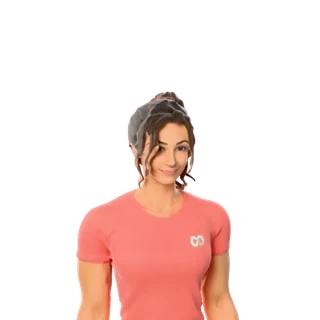
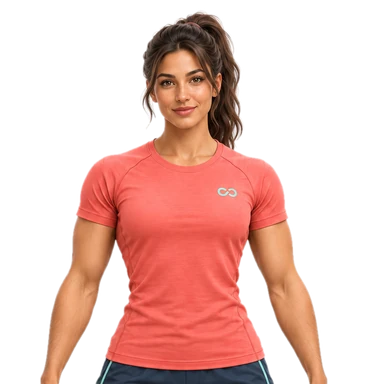
Coaches: reference half-body portraits, bottom-centre fit, tap-to-emote, tighter 720p crops, open-hand celebrations
Claude-Session: https://claude.ai/code/session_01TDToodQbPJg86keHcVnDSc

diff --git a/app/src/main/java/com/myfit/tracker/ui/coach/CoachArt.kt b/app/src/main/java/com/myfit/tracker/ui/coach/CoachArt.kt
@@ -24,6 +24,8 @@ import androidx.compose.material3.Icon
 import androidx.compose.runtime.Composable
 import androidx.compose.runtime.collectAsState
 import androidx.compose.runtime.getValue
+import androidx.compose.runtime.setValue
+import androidx.compose.foundation.clickable
 import androidx.compose.runtime.produceState
 import androidx.compose.ui.Alignment
 import androidx.compose.ui.Modifier
@@ -91,13 +93,28 @@ private val remember0 = MutableStateFlow(0f)
  * pops into each new pose with a springy entrance.
  */
 @Composable
-fun CoachFigure(look: String, pose: String, modifier: Modifier = Modifier, level: MutableStateFlow<Float>? = null, spotlight: Boolean = true) {
+fun CoachFigure(look: String, pose: String, modifier: Modifier = Modifier, level: MutableStateFlow<Float>? = null, spotlight: Boolean = true,
+                tapToEmote: Boolean = true) {
     val th = LocalFitTheme.current
+    // tap → a random fitting emote (never the same twice in a row), played once, then back to the screen's pose
+    var tapPose by androidx.compose.runtime.remember(look) { androidx.compose.runtime.mutableStateOf<String?>(null) }
+    var lastEmote by androidx.compose.runtime.remember(look) { androidx.compose.runtime.mutableStateOf<String?>(null) }
+    val shown = tapPose ?: pose
     val lv by (level ?: remember0).collectAsState()
     val t = rememberInfiniteTransition(label = "breath")
     val b by t.animateFloat(0f, 1f, infiniteRepeatable(tween(1900), RepeatMode.Reverse), label = "b")
     val sway by t.animateFloat(-1f, 1f, infiniteRepeatable(tween(3400), RepeatMode.Reverse), label = "s")
-    Box(modifier, contentAlignment = Alignment.BottomCenter) {
+    val tapMod = if (!tapToEmote) Modifier else Modifier.clickable(
+        interactionSource = androidx.compose.runtime.remember { androidx.compose.foundation.interaction.MutableInteractionSource() }, indication = null,
+    ) {
+        if (tapPose == null) { val e = CoachEmotes.pick(look, lastEmote); lastEmote = e; tapPose = e }
+    }
+    // stills (no pack yet / Android 8) have no end callback: hold the emote briefly, then return
+    val ctx0 = LocalContext.current
+    androidx.compose.runtime.LaunchedEffect(tapPose) {
+        if (tapPose != null && (android.os.Build.VERSION.SDK_INT < 28 || !CoachPacks.isInstalled(ctx0, look))) { kotlinx.coroutines.delay(2200); tapPose = null }
+    }
+    Box(modifier.then(tapMod), contentAlignment = Alignment.BottomCenter) {
         if (spotlight) Canvas(Modifier.fillMaxSize()) {
             drawOval(Brush.radialGradient(listOf(th.accent.copy(alpha = 0.35f), Color.Transparent), center = Offset(size.width / 2, size.height * 0.92f), radius = size.width * 0.5f),
                 topLeft = Offset(size.width * 0.12f, size.height * 0.84f), size = androidx.compose.ui.geometry.Size(size.width * 0.76f, size.height * 0.14f))
@@ -108,7 +125,7 @@ fun CoachFigure(look: String, pose: String, modifier: Modifier = Modifier, level
         val packs by CoachPacks.installed.collectAsState()
         // first appearance of this coach: fetch the animated moves in the background (the still shows meanwhile)
         androidx.compose.runtime.LaunchedEffect(look) { if (!CoachPacks.isInstalled(ctx, look)) CoachPacks.ensure(ctx, look) }
-        AnimatedContent(pose, Modifier.fillMaxSize(), transitionSpec = {
+        AnimatedContent(shown, Modifier.fillMaxSize(), transitionSpec = {
             (scaleIn(spring(0.55f, 380f), initialScale = 0.96f) + fadeIn(tween(180)))
                 .togetherWith(fadeOut(tween(140)))
         }, label = "pose") { p ->
@@ -118,7 +135,9 @@ fun CoachFigure(look: String, pose: String, modifier: Modifier = Modifier, level
             Box(Modifier.fillMaxSize(), contentAlignment = Alignment.BottomCenter) {
                 if (clip != null) {
                     // the animation carries its own breathing and motion; only bob gently with the voice
-                    CoachClip(clip, Modifier.fillMaxSize().graphicsLayer { transformOrigin = TransformOrigin(0.5f, 1f); translationY = -lv * 6f })
+                    val once = tapPose != null && p == tapPose
+                    CoachClip(clip, Modifier.fillMaxSize().graphicsLayer { transformOrigin = TransformOrigin(0.5f, 1f); translationY = -lv * 6f },
+                        loop = !once, onEnd = { if (tapPose == p) tapPose = null })
                 } else {
                     val img = rememberCoachImage(look, p)
                     if (img != null) Image(img, null, Modifier.fillMaxSize().graphicsLayer {
@@ -140,20 +159,54 @@ fun CoachFigure(look: String, pose: String, modifier: Modifier = Modifier, level
  * which avoids the stale-bounds double image some Android 11 MediaTek phones showed when drawing into Compose.
  */
 @Composable
-private fun CoachClip(file: java.io.File, modifier: Modifier) {
+private fun CoachClip(file: java.io.File, modifier: Modifier, loop: Boolean = true, onEnd: (() -> Unit)? = null) {
+    val end = androidx.compose.runtime.rememberUpdatedState(onEnd)
     androidx.compose.ui.viewinterop.AndroidView(
-        factory = { c -> android.widget.ImageView(c).apply { scaleType = android.widget.ImageView.ScaleType.FIT_END; adjustViewBounds = false } },
+        factory = { c -> BottomFitImageView(c) },
         modifier = modifier,
         update = { iv ->
-            if (iv.tag != file.path && android.os.Build.VERSION.SDK_INT >= 28) {
-                iv.tag = file.path
+            val key = file.path + loop
+            if (iv.tag != key && android.os.Build.VERSION.SDK_INT >= 28) {
+                iv.tag = key
                 runCatching {
                     val d = android.graphics.ImageDecoder.decodeDrawable(android.graphics.ImageDecoder.createSource(file))
                     iv.setImageDrawable(d)
-                    (d as? android.graphics.drawable.AnimatedImageDrawable)?.apply { repeatCount = android.graphics.drawable.AnimatedImageDrawable.REPEAT_INFINITE; start() }
+                    (d as? android.graphics.drawable.AnimatedImageDrawable)?.apply {
+                        repeatCount = if (loop) android.graphics.drawable.AnimatedImageDrawable.REPEAT_INFINITE else 0
+                        if (!loop) registerAnimationCallback(object : android.graphics.drawable.Animatable2.AnimationCallback() {
+                            override fun onAnimationEnd(drawable: android.graphics.drawable.Drawable?) { end.value?.invoke() }
+                        })
+                        start()
+                    }
                 }
             }
         },
-        onRelease = { iv -> ((iv.drawable as? android.graphics.drawable.Animatable))?.stop(); iv.setImageDrawable(null) },
+        onRelease = { iv ->
+            if (android.os.Build.VERSION.SDK_INT >= 28) (iv.drawable as? android.graphics.drawable.AnimatedImageDrawable)?.clearAnimationCallbacks()
+            ((iv.drawable as? android.graphics.drawable.Animatable))?.stop(); iv.setImageDrawable(null)
+        },
     )
+}
+
+/** Emotes a tap can trigger, per coach kind. */
+object CoachEmotes {
+    private val TRAINER = listOf("wave", "thumbsup", "fistpump", "cheer", "victory")
+    private val NUTRI = listOf("wave", "thumbsup", "think", "bottle")
+    fun list(look: String) = if (look.startsWith("n")) NUTRI else TRAINER
+    fun pick(look: String, last: String?): String = list(look).filter { it != last }.random()
+}
+
+/** Scales the frame to fit the box and stands it on the bottom edge, centred horizontally (feet on the floor). */
+private class BottomFitImageView(c: android.content.Context) : android.widget.ImageView(c) {
+    init { scaleType = ScaleType.MATRIX }
+    private fun fit() {
+        val d = drawable ?: return
+        val dw = d.intrinsicWidth.toFloat(); val dh = d.intrinsicHeight.toFloat()
+        val vw = (width - paddingLeft - paddingRight).toFloat(); val vh = (height - paddingTop - paddingBottom).toFloat()
+        if (dw <= 0f || dh <= 0f || vw <= 0f || vh <= 0f) return
+        val s = minOf(vw / dw, vh / dh)
+        imageMatrix = android.graphics.Matrix().apply { setScale(s, s); postTranslate((vw - dw * s) / 2f, vh - dh * s) }
+    }
+    override fun setFrame(l: Int, t: Int, r: Int, b: Int): Boolean = super.setFrame(l, t, r, b).also { fit() }
+    override fun setImageDrawable(drawable: android.graphics.drawable.Drawable?) { super.setImageDrawable(drawable); fit() }
 }

diff --git a/app/src/main/java/com/myfit/tracker/ui/coach/CoachSetOverlay.kt b/app/src/main/java/com/myfit/tracker/ui/coach/CoachSetOverlay.kt
@@ -338,14 +338,14 @@ fun CoachSetOverlay(cur: WorkoutExerciseView, list: List<WorkoutExerciseView>, v
                             modifier = Modifier.align(Alignment.TopEnd).padding(14.dp).clip(RoundedCornerShape(12.dp)).background(Color.Black.copy(alpha = 0.45f)).padding(horizontal = 10.dp, vertical = 4.dp))
                         if (stage == Stage.SETUP) SetupChecklist(setup, pattern, Modifier.align(Alignment.TopStart).padding(12.dp))
                         // small coach in the corner while the camera runs
-                        CoachPortrait(cp.look.id, speaking, 58.dp, Modifier.align(Alignment.BottomEnd).padding(12.dp), voice.level)
+                        CoachPortrait(cp.look.id, speaking, 58.dp, Modifier.align(Alignment.BottomEnd).padding(12.dp), voice.level, tapToEmote = false)
                     } else when (stage) {
                         Stage.WORK -> Box(Modifier.fillMaxSize()) {
                             ExerciseImage(ex, Modifier.fillMaxSize().padding(12.dp).clip(RoundedCornerShape(24.dp)), animate = true, periodMs = 900)
-                            CoachPortrait(cp.look.id, speaking, 58.dp, Modifier.align(Alignment.BottomEnd).padding(12.dp), voice.level)
+                            CoachPortrait(cp.look.id, speaking, 58.dp, Modifier.align(Alignment.BottomEnd).padding(12.dp), voice.level, tapToEmote = false)
                         }
                         Stage.INTRO -> Row(Modifier.fillMaxSize()) {
-                            CoachFigure(cp.look.id, pose, Modifier.weight(1f).fillMaxHeight().padding(top = 8.dp), voice.level)
+                            CoachFigure(cp.look.id, pose, Modifier.weight(1f).fillMaxHeight().padding(top = 8.dp), voice.level, tapToEmote = false)
                             if (wide) Column(Modifier.weight(0.9f).fillMaxHeight().padding(12.dp), verticalArrangement = Arrangement.Center) {
                                 ExerciseImage(ex, Modifier.fillMaxWidth().aspectRatio(1f).clip(RoundedCornerShape(22.dp)), animate = true, periodMs = 1000)
                                 Spacer(Modifier.height(10.dp))
@@ -354,10 +354,10 @@ fun CoachSetOverlay(cur: WorkoutExerciseView, list: List<WorkoutExerciseView>, v
                             }
                         }
                         Stage.DONE -> Row(Modifier.fillMaxSize()) {
-                            CoachFigure(cp.look.id, pose, Modifier.weight(1f).fillMaxHeight().padding(top = 8.dp), voice.level)
+                            CoachFigure(cp.look.id, pose, Modifier.weight(1f).fillMaxHeight().padding(top = 8.dp), voice.level, tapToEmote = false)
                             SetSummary(reps, timed, elapsed, summary, Modifier.weight(1f).fillMaxHeight().padding(12.dp))
                         }
-                        else -> CoachFigure(cp.look.id, pose, Modifier.fillMaxSize().padding(top = 8.dp), voice.level)
+                        else -> CoachFigure(cp.look.id, pose, Modifier.fillMaxSize().padding(top = 8.dp), voice.level, tapToEmote = false)
                     }
                     // counters / overlays
                     if (stage == Stage.WORK || stage == Stage.REST) {

diff --git a/tools/coach3d/pack.py b/tools/coach3d/pack.py
@@ -1,26 +1,57 @@
-"""PNG frames -> animated WebP (looping), trimmed to the union bounding box of all clips of a coach so every clip
-shares the same canvas.  python pack.py <coach_frames_dir> <out_dir>"""
+"""PNG frames -> looping animated WebP, cropped tight to the coach.
+Standing clips share ONE crop box per coach (union of every frame of every standing clip), so the coach keeps the same
+size and position whichever move plays; floor moves (pushup, plank) get their own box.  python pack.py <frames_dir> <out>"""
 import sys, os, glob
 from PIL import Image
 
 src, out = sys.argv[1], sys.argv[2]
 os.makedirs(out, exist_ok=True)
+FLOOR = {'pushup', 'plank'}
+H_OUT = 720                       # output height for standing clips (px)
 clips = sorted(d for d in os.listdir(src) if os.path.isdir(os.path.join(src, d)) and d != 'portrait')
+
+
+def frames(c): return sorted(glob.glob(os.path.join(src, c, '0*.png')))
+
+
+def union_box(cs):
+    box = None
+    for c in cs:
+        for f in frames(c)[::2]:
+            b = Image.open(f).getchannel('A').point(lambda v: 255 if v > 10 else 0).getbbox()
+            if not b: continue
+            box = b if box is None else (min(box[0], b[0]), min(box[1], b[1]), max(box[2], b[2]), max(box[3], b[3]))
+    return box
+
+
+def pad(b, W, H, m=0.03):
+    w, h = b[2] - b[0], b[3] - b[1]; px, py = int(w * m) + 4, int(h * m) + 4
+    return (max(0, b[0] - px), max(0, b[1] - py), min(W, b[2] + px), min(H, b[3] + py))
+
+
+stand = [c for c in clips if c not in FLOOR]
+sample = Image.open(frames(stand[0])[0]); W, H = sample.size
+sbox = pad(union_box(stand), W, H)
 total = 0
 for c in clips:
-    fs = sorted(glob.glob(os.path.join(src, c, '0*.png')))
+    fs = frames(c)
     if not fs: continue
-    meta = open(os.path.join(src, c, 'meta.txt')).read().split()
-    fps = int(meta[2])
-    ims = [Image.open(f).convert('RGBA') for f in fs]
-    # 400x720 render -> 300x540 (sharper than rendering small; keeps file size sane)
-    ims = [im.resize((300, 540), Image.LANCZOS) for im in ims]
+    fps = int(open(os.path.join(src, c, 'meta.txt')).read().split()[2])
+    box = sbox if c not in FLOOR else pad(union_box([c]), W, H)
+    bw, bh = box[2] - box[0], box[3] - box[1]
+    if c in FLOOR:
+        ow = int((sbox[2] - sbox[0]) * H_OUT / (sbox[3] - sbox[1]) * 1.6); oh = max(2, int(ow * bh / bw))
+    else:
+        oh = H_OUT; ow = max(2, int(bw * H_OUT / bh))
+    ims = [Image.open(f).convert('RGBA').crop(box).resize((ow, oh), Image.LANCZOS) for f in fs]
     p = os.path.join(out, f'{c}.webp')
-    ims[0].save(p, save_all=True, append_images=ims[1:], duration=round(1000 / fps), loop=0, quality=78, method=6, lossless=False)
+    ims[0].save(p, save_all=True, append_images=ims[1:], duration=round(1000 / fps), loop=0, quality=82, method=4, lossless=False)
     total += os.path.getsize(p)
-    print(c, len(ims), os.path.getsize(p) // 1024, 'KB')
+    print(c, len(ims), f'{ow}x{oh}', os.path.getsize(p) // 1024, 'KB')
 pd = os.path.join(src, 'portrait')
 if os.path.isdir(pd):
-    Image.open(os.path.join(pd, 'portrait.png')).convert('RGBA').resize((320, 320), Image.LANCZOS).save(os.path.join(out, 'portrait.webp'), quality=88, method=6)
-    Image.open(os.path.join(pd, 'stand.png')).convert('RGBA').resize((300, 540), Image.LANCZOS).save(os.path.join(out, 'stand.webp'), quality=85, method=6)
+    st = Image.open(os.path.join(pd, 'stand.png')).convert('RGBA')
+    b = pad(st.getchannel('A').point(lambda v: 255 if v > 10 else 0).getbbox(), *st.size)
+    st = st.crop(b); st = st.resize((int(st.width * H_OUT / st.height), H_OUT), Image.LANCZOS)
+    st.save(os.path.join(out, 'stand.webp'), quality=88, method=6)
 print('TOTAL', total // 1024, 'KB')

diff --git a/tools/coach3d/moves.py b/tools/coach3d/moves.py
@@ -111,10 +111,10 @@ def thumbs_up():
 
 def cheer():
     c = Clip('cheer', 56); c.lag = {'Hand.L': 2, 'Hand.R': 2, 'Head': 2, 'ForeArm.L': 1, 'ForeArm.R': 1}
-    upA = P(both('UpperArm', x=-18, y=-150), both('ForeArm', x=-12), fist('L'), fist('R'),
+    upA = P(both('UpperArm', x=-18, y=-150), both('ForeArm', x=-12), both('Hand', x=12), open_hand('L', 1.2), open_hand('R', 1.2),
             {'Spine': (-4, 0, 0), 'Chest': (-6, 0, 0), 'Head': (-12, 0, 0)}, both('UpLeg', x=-6), both('Leg', x=10))
     c.key(0, P())
-    c.key(8, P(both('UpperArm', x=-10, y=-10), both('ForeArm', x=-60), fist('L', .7), fist('R', .7), {'Spine': (8, 0, 0), 'Head': (6, 0, 0)},
+    c.key(8, P(both('UpperArm', x=-10, y=-10), both('ForeArm', x=-60), fist('L', .4), fist('R', .4), {'Spine': (8, 0, 0), 'Head': (6, 0, 0)},
                both('UpLeg', x=-22), both('Leg', x=40), both('Foot', x=-16)), hips=(0, 0.02, -0.07), ease='in')        # crouch
     c.key(15, upA, hips=(0, 0, 0.03), ease='snap')                                                 # explode up
     c.key(22, merge(upA, both('UpperArm', y=8)), hips=(0, 0, 0.0))
@@ -126,10 +126,10 @@ def cheer():
 
 def fist_pump():
     c = Clip('fistpump', 56); c.lag = {'Hand.R': 1, 'Head': 2}
-    pull = P(side('UpperArm', 'R', x=-8, y=-28), side('ForeArm', 'R', x=-120), fist('R'),
+    pull = P(side('UpperArm', 'R', x=-8, y=-28), side('ForeArm', 'R', x=-120), fist('R', .55),
              {'Spine': (10, -3, -10), 'Chest': (6, 0, -6), 'Head': (8, 0, -6)}, both('UpLeg', x=-12), both('Leg', x=22), both('Foot', x=-10))
     c.key(0, P())
-    c.key(8, P(side('UpperArm', 'R', x=-40, y=-55), side('ForeArm', 'R', x=-70), fist('R'), {'Spine': (-3, 0, 4)}), ease='in')
+    c.key(8, P(side('UpperArm', 'R', x=-40, y=-55), side('ForeArm', 'R', x=-70), fist('R', .55), {'Spine': (-3, 0, 4)}), ease='in')
     c.key(15, pull, hips=(0, 0.01, -0.05), ease='snap')           # "yes!" pull down
     c.key(22, merge(pull, side('ForeArm', 'R', x=10)), hips=(0, 0.01, -0.04))
     c.key(28, pull, hips=(0, 0.01, -0.05), ease='snap')           # second smaller pump
@@ -222,7 +222,7 @@ def hold_plate():
     c = Clip('plate', 96); c.lag = {'Head': 3, 'Hand.R': 2}
     hold = P(side('UpperArm', 'L', x=-14, y=-6, tw=18), side('ForeArm', 'L', x=-60, tw=PALM_UP), side('Hand', 'L', x=4), open_hand('L', .3),
              side('ForeArm', 'R', x=-18), {'Spine': (0, 0, 3), 'Head': (8, 0, 6)})
-    present = merge(hold, side('UpperArm', 'R', x=-30, y=-18, tw=-10), side('ForeArm', 'R', x=-55, tw=PALM_UP * 0.6), open_hand('R'),
+    present = merge(hold, side('UpperArm', 'R', x=-22, y=-24, tw=-10), side('ForeArm', 'R', x=-28, tw=PALM_UP * 0.6), open_hand('R'),
                     {'Head': (-2, 0, -2)})
     c.key(0, hold); c.key(26, merge(hold, {'Head': (12, 2, 10)})); c.key(44, present, ease='out'); c.key(70, present); c.key(88, hold)
     c.props = [('plate', 'Hand.L')]

diff --git a/tools/coach3d/ref_portrait.py b/tools/coach3d/ref_portrait.py
@@ -1,0 +1,36 @@
+"""Card portraits from the owner's reference images: background removed (flood fill from the border on the near-white
+studio backdrop, feathered edge), cropped head-to-waist, square.  python ref_portrait.py ref.png out.webp"""
+import sys
+import numpy as np
+from PIL import Image, ImageFilter
+from collections import deque
+
+im = Image.open(sys.argv[1]).convert('RGB'); a = np.asarray(im).astype(np.int16)
+H, W, _ = a.shape
+bg = np.median(np.concatenate([a[0], a[-1], a[:, 0], a[:, -1]]), axis=0)
+dist = np.abs(a - bg).sum(2)
+near = dist < 38
+mask = np.zeros((H, W), bool); q = deque()
+for x in range(W):
+    for y in (0, H - 1):
+        if near[y, x] and not mask[y, x]: mask[y, x] = True; q.append((y, x))
+for y in range(H):
+    for x in (0, W - 1):
+        if near[y, x] and not mask[y, x]: mask[y, x] = True; q.append((y, x))
+while q:
+    y, x = q.popleft()
+    for dy, dx in ((1, 0), (-1, 0), (0, 1), (0, -1)):
+        ny, nx = y + dy, x + dx
+        if 0 <= ny < H and 0 <= nx < W and near[ny, nx] and not mask[ny, nx]: mask[ny, nx] = True; q.append((ny, nx))
+alpha = Image.fromarray(np.where(mask, 0, 255).astype(np.uint8)).filter(ImageFilter.MinFilter(3)).filter(ImageFilter.GaussianBlur(1.2))
+rgba = im.convert('RGBA'); rgba.putalpha(alpha)
+ys, xs = np.where(np.asarray(alpha) > 128)
+top, bot = ys.min(), ys.max(); cx = int(np.median(xs[ys < top + (bot - top) * 0.12]))   # centre on the head
+h = bot - top
+y0 = max(0, top - int(h * 0.03)); y1 = top + int(h * 0.48)                                   # head to waist
+side = y1 - y0
+x0 = max(0, cx - side // 2); x1 = min(W, x0 + side)
+crop = rgba.crop((x0, y0, x1, y1))
+sq = Image.new('RGBA', (side, side), (0, 0, 0, 0)); sq.paste(crop, ((side - crop.width) // 2, 0))
+sq.resize((384, 384), Image.LANCZOS).save(sys.argv[2], quality=90, method=6)
+print('ok', sys.argv[2])

diff --git a/tools/coach3d/render_clip.py b/tools/coach3d/render_clip.py
@@ -2,7 +2,7 @@
 Render one coach clip to PNG frames (transparent) for CI.
   python render_clip.py <glb_dir> <ual.glb> <who> <clip|portrait> <out_dir> [fps=20] [samples=40]
 Camera: one fixed 3/4 framing for every standing clip (so the coach never jumps in size between moves), a wider side
-framing for floor moves. Frame size 400x720 (portrait 512x512).
+framing for floor moves. Frame size 600x1080 (portrait 512x512); pack.py crops tight to the coach.
 """
 import sys, os, bpy, math
 sys.path.insert(0, os.path.dirname(os.path.abspath(__file__)))
@@ -16,7 +16,7 @@ os.makedirs(out, exist_ok=True)
 arm, body = rig.load(who, glb)
 look.refine(body, subdiv=0)
 rig.bulk(arm, who)
-s = studio.setup(res=720, samples=samples)
+s = studio.setup(res=1080, samples=samples)
 s.render.image_settings.file_format = 'PNG'; s.render.image_settings.color_mode = 'RGBA'
 
 if clip == 'portrait':
@@ -27,13 +27,13 @@ if clip == 'portrait':
     studio.camera(target=(head.x, head.y, head.z + 0.02), dist=1.75, yaw=-14, pitch=3, lens=70)
     studio.render(os.path.join(out, 'portrait.png'))
     # full-figure still (APK fallback while the animated pack downloads)
-    s.render.resolution_x = 400; s.render.resolution_y = 720
+    s.render.resolution_x = 600; s.render.resolution_y = 1080
     studio.camera(target=(0, 0, 1.05), dist=4.3, yaw=-16, pitch=4, lens=60)
     studio.render(os.path.join(out, 'stand.png'))
     print('RENDER_DONE portrait'); sys.exit(0)
 
 c = clips.build(who, clip, arm, glb, ual)
-s.render.resolution_x = 400; s.render.resolution_y = 720
+s.render.resolution_x = 600; s.render.resolution_y = 1080
 floor = clip in ('pushup', 'plank')
 if floor:
     studio.camera(target=(0, -0.72, 0.40), dist=6.2, yaw=-62, pitch=8, lens=60)

diff --git a/tools/coach3d/clips.py b/tools/coach3d/clips.py
@@ -112,9 +112,9 @@ def victory():
     load = P(both('UpperArm', x=20, y=8), both('ForeArm', x=-30), {'Spine': (22, 0, 0), 'Head': (8, 0, 0)},
              both('UpLeg', x=-60), both('Leg', x=95), both('Foot', x=-35), moves.fist('L', .6), moves.fist('R', .6))
     air = P(both('UpperArm', x=-20, y=-150), both('ForeArm', x=-10), both('Hand', x=18), {'Spine': (-8, 0, 0), 'Chest': (-6, 0, 0), 'Head': (-14, 0, 0)},
-            both('UpLeg', x=-28), both('Leg', x=55), both('Foot', x=30), moves.fist('L'), moves.fist('R'))
+            both('UpLeg', x=-28), both('Leg', x=55), both('Foot', x=30), moves.open_hand('L', 1.2), moves.open_hand('R', 1.2))
     land = P(both('UpperArm', x=-10, y=-62, tw=-70), both('ForeArm', x=-115), {'Spine': (14, 0, 0), 'Head': (-6, 0, 0)}, both('UpLeg', x=-50), both('Leg', x=80), both('Foot', x=-25),
-             moves.fist('L'), moves.fist('R'))
+             moves.fist('L', .5), moves.fist('R', .5))
     c.key(0, P()); c.key(10, load, hips=(0, 0.04, -0.26), ease='in')
     c.key(16, air, hips=(0, 0, 0.30), ease='out')
     c.key(22, air, hips=(0, 0, 0.36))
